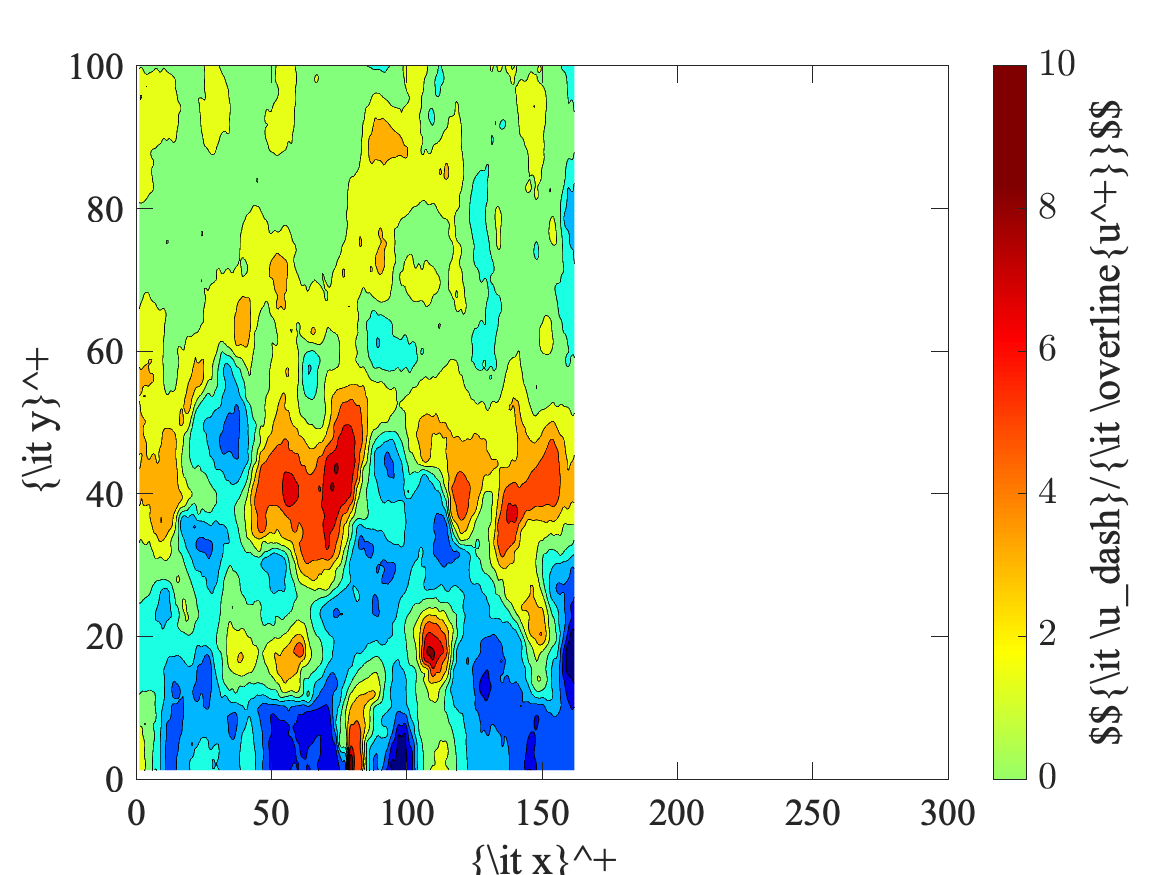
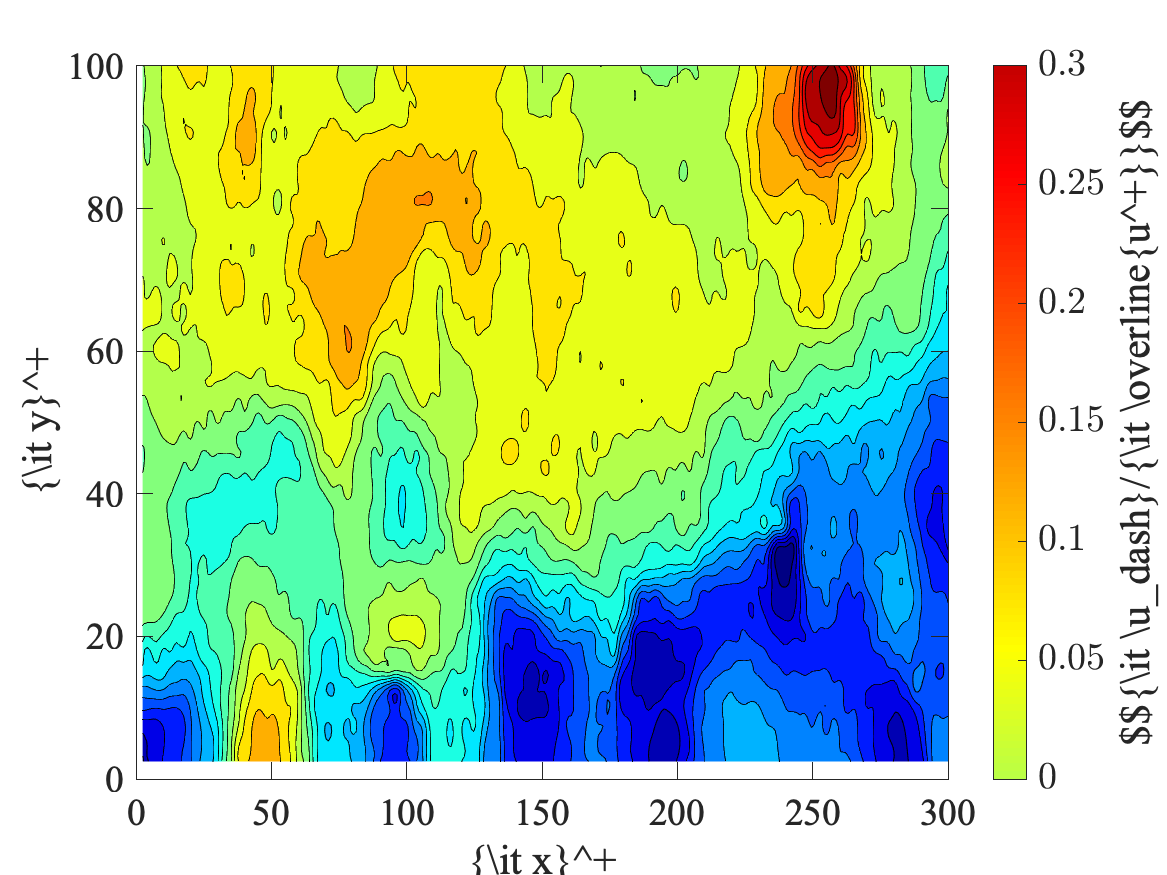
変動の分布図

diff --git a/itoi/PIV_assignment/fluc_distribution/fluc_water.m b/itoi/PIV_assignment/fluc_distribution/fluc_water.m
@@ -8,23 +8,26 @@ newpoints = m*3;
 %              );
 %  クエリ点で内挿
 U_dash= interp2(x(:,:,1),x(:,:,2),uf(:,:,1),xq,yq,'spline');         % interpolation
-[cc_water_dash,hc_water_dash]=contourf(xq*ut/vis,yq*ut/vis,U_dash/Ub,20);                   % making isoline
+[cc_water_dash,hc_water_dash]=contourf(xq*ut/vis,yq*ut/vis,U_dash/ub,20);                   % making isoline
 hc_water_dash.TextStep = 0.4;                                                  % interval isoline
 hc_water_dash.ShowText = 'off';                                                % isoline text off
 colormap('jet');                                                    % color type of 'jet'
 box on;                                                             % making flame of figure
-xlim([0 300]);                                                       % range of x
-ylim([0 100]);                                                     % range of y
+xlim([0 150]);                                                       % range of x
+ylim([0 60]);                                                     % range of y
 set( gca, 'FontName','Times','FontSize',18);                        % font and its size of axes 
 ax = gca;
 ax.TickLength = [0.02 0.1];                                         % scale size to inside from flame
-xlabel('{\it x}^+','FontSize',20,'Interpreter','latex');           % xlabel, its size, and type
-ylabel('{\it y}^+','FontSize',20,'Interpreter','latex');           % ylabel, its size, and type
+xlabel('${\it x^+}$','FontSize',20,'Interpreter','latex');           % xlabel, its size, and type
+ylabel('${\it y^+}$','FontSize',20,'Interpreter','latex');           % ylabel, its size, and type
 c = colorbar;                                                       % making color bar
-c.Limits = [0 3.0];                                                 % range of colorbar
+c.Limits = [-0.4 0.4];                                                 % range of colorbar
 c.FontSize = 18;                                                    % font size of scale of color bar
 c.TickLabelInterpreter = 'latex';                                   % font type of scale of color bar
 c.Label.Interpreter = 'latex';                                      % font type of label of color bar
-c.Label.String = '$${\it \u_dash}/{\it \overline{u^+}}$$';                % label of color bar
+c.Label.String = '$${\it u^\prime}/{\it U_b}$$';                % label of color bar
 c.Label.FontSize = 20;                                              % font size of label of color bar
-saveas(gcf,'U_dash','png');   
+saveas(gcf,'U_dash_water','png');   
+
+% skewness flatnesss
+% レイノルズ剪断応力にベクトル成分，壁乱流の

diff --git a/itoi/PIV_assignment/fluc_distribution/fluc_solution.m b/itoi/PIV_assignment/fluc_distribution/fluc_solution.m
@@ -8,23 +8,23 @@ newpoints = m*3;
 %              );
 %  クエリ点で内挿
 U_dash= interp2(x(:,:,1),x(:,:,2),uf(:,:,1),xq,yq,'spline');         % interpolation
-[cc_solution_dash,hc_solution_dash]=contourf(xq*ut/vis,yq*ut/vis,U_dash/Ub,10);                   % making isoline
+[cc_solution_dash,hc_solution_dash]=contourf(xq*ut/vis,yq*ut/vis,U_dash/ub,20);                   % making isoline
 hc_solution_dash.TextStep = 0.4;                                                  % interval isoline
 hc_solution_dash.ShowText = 'off';                                                % isoline text off
 colormap('jet');                                                    % color type of 'jet'
 box on;                                                             % making flame of figure
-xlim([0 300]);                                                       % range of x
-ylim([0 100]);                                                     % range of y
+xlim([0 150]);                                                       % range of x
+ylim([0 60]);                                                     % range of y
 set( gca, 'FontName','Times','FontSize',18);                        % font and its size of axes 
 ax = gca;
 ax.TickLength = [0.02 0.1];                                         % scale size to inside from flame
-xlabel('{\it x}^+','FontSize',20,'Interpreter','latex');           % xlabel, its size, and type
-ylabel('{\it y}^+','FontSize',20,'Interpreter','latex');           % ylabel, its size, and type
+xlabel('${\it x^+}$','FontSize',20,'Interpreter','latex');           % xlabel, its size, and type
+ylabel('${\it y^+}$','FontSize',20,'Interpreter','latex');           % ylabel, its size, and type
 c = colorbar;                                                       % making color bar
-c.Limits = [0 10.0];                                                 % range of colorbar
+c.Limits = [-0.4 0.4];                                                 % range of colorbar
 c.FontSize = 18;                                                    % font size of scale of color bar
 c.TickLabelInterpreter = 'latex';                                   % font type of scale of color bar
 c.Label.Interpreter = 'latex';                                      % font type of label of color bar
-c.Label.String = '$${\it \u_dash}/{\it \overline{u^+}}$$';                % label of color bar
+c.Label.String = '$${\it u^\prime}/{\it U_b}$$';                % label of color bar
 c.Label.FontSize = 20;                                              % font size of label of color bar
-saveas(gcf,'U_dash','png');   
+saveas(gcf,'U_dash_solution','png');   

diff --git a/itoi/PIV_assignment/water_algo.m b/itoi/PIV_assignment/water_algo.m
@@ -146,7 +146,32 @@ for k =0:numfiles-1
     uu(:,:,1)  = uu(:,:,1)+uf(:,:,1).*uf(:,:,1)/double(numfiles);
     uu(:,:,2)  = uu(:,:,2)+uf(:,:,2).*uf(:,:,2)/double(numfiles);
     uu(:,:,3)  = uu(:,:,3)+uf(:,:,3)/double(numfiles);
+    U_dash= interp2(x(:,:,1),x(:,:,2),uf(:,:,1),xq,yq,'spline');         % interpolation
 
+    if k == 5 | k == 10 | k == 20 | k == 40 | k == 60 | k == 80 | k == 160 | k == 320 | k == 500
+        [cc_water_dash,hc_water_dash]=contourf(xq*ut/vis,yq*ut/vis,U_dash/ub,12);                   % making isoline
+        hc_water_dash.TextStep = 0.4;                                                  % interval isoline
+        hc_water_dash.ShowText = 'off';                                                % isoline text off
+        colormap('jet');                                                    % color type of 'jet'
+        box on;                                                             % making flame of figure
+        xlim([0 150]);                                                       % range of x
+        ylim([0 60]);                                                     % range of y
+        set( gca, 'FontName','Times','FontSize',18);                        % font and its size of axes 
+        ax = gca;
+        ax.TickLength = [0.02 0.1];                                         % scale size to inside from flame
+        xlabel('${\it x^+}$','FontSize',20,'Interpreter','latex');           % xlabel, its size, and type
+        ylabel('${\it y^+}$','FontSize',20,'Interpreter','latex');           % ylabel, its size, and type
+        c = colorbar;                                                       % making color bar
+        c.Limits = [-0.4 0.4];                                                 % range of colorbar
+        c.FontSize = 18;                                                    % font size of scale of color bar
+        c.TickLabelInterpreter = 'latex';                                   % font type of scale of color bar
+        c.Label.Interpreter = 'latex';                                      % font type of label of color bar
+        c.Label.String = '$${\it u^\prime}/{\it U_b}$$';                % label of color bar
+        c.Label.FontSize = 20;                                              % font size of label of color bar
+        fig_name = sprintf('U_dash_water%d',k);
+        saveas(gcf,fig_name ,'png'); 
+        
+    end        
 end
 
 % 同行の値を平均
